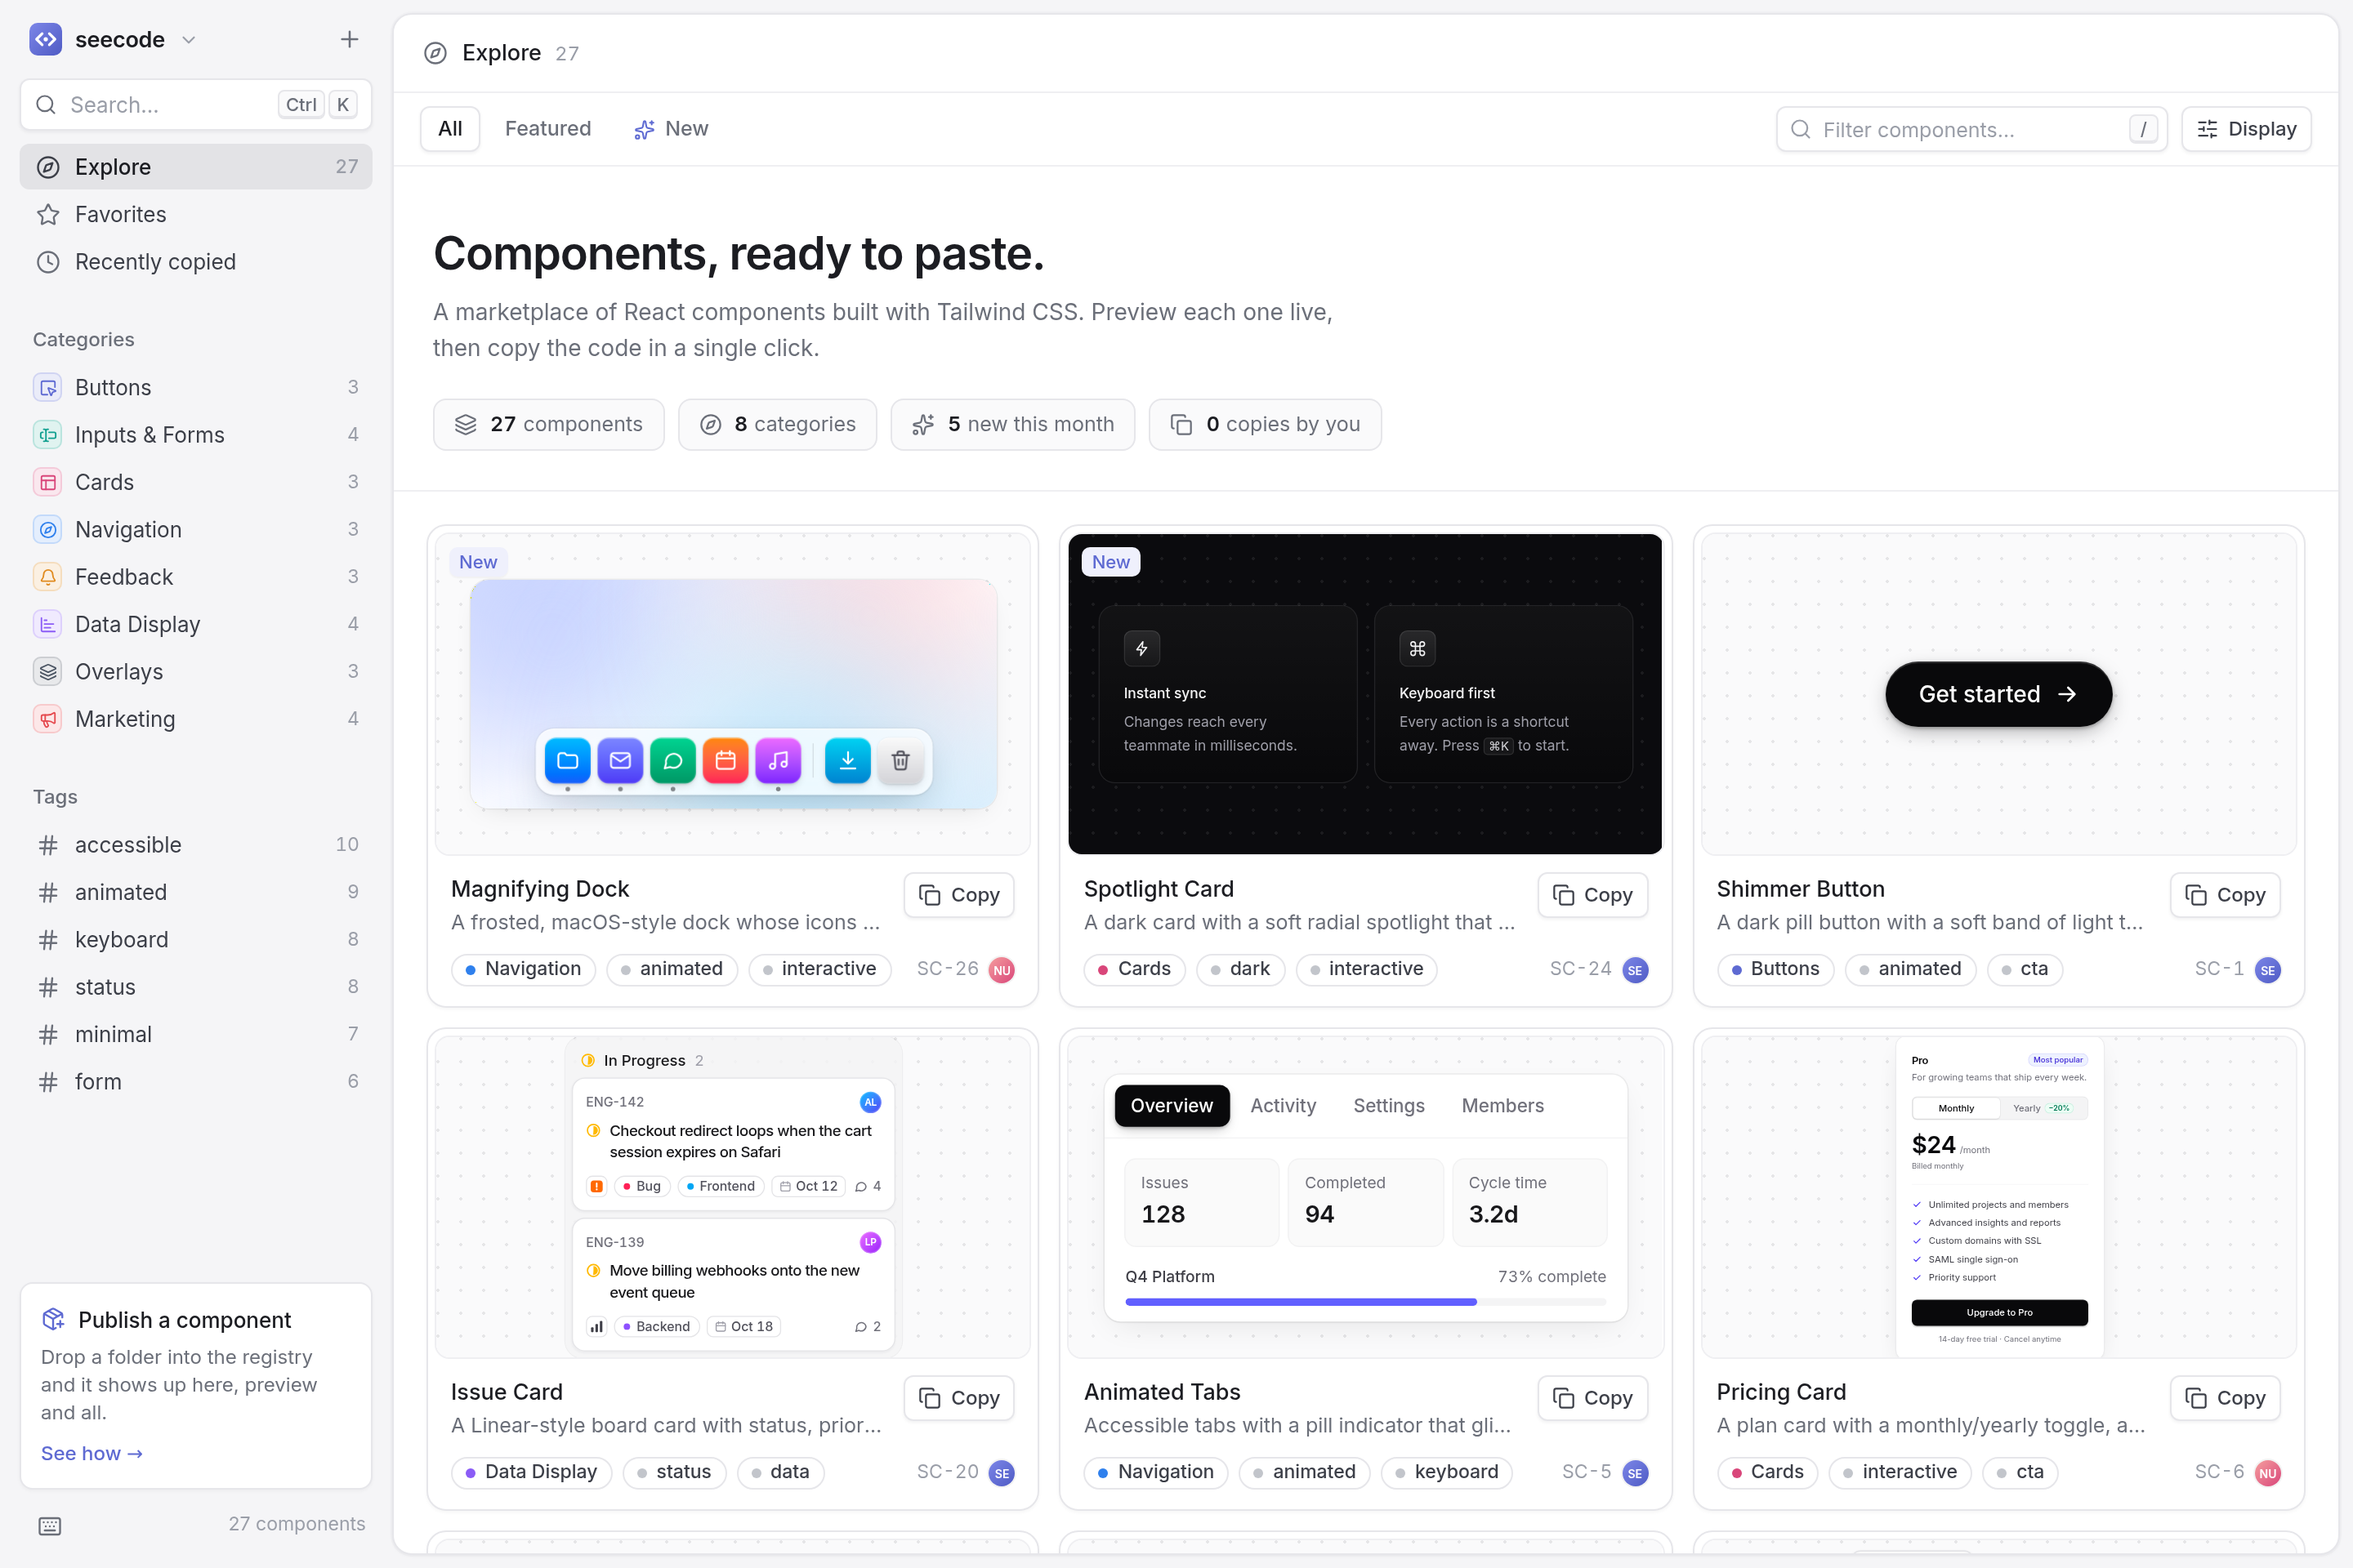
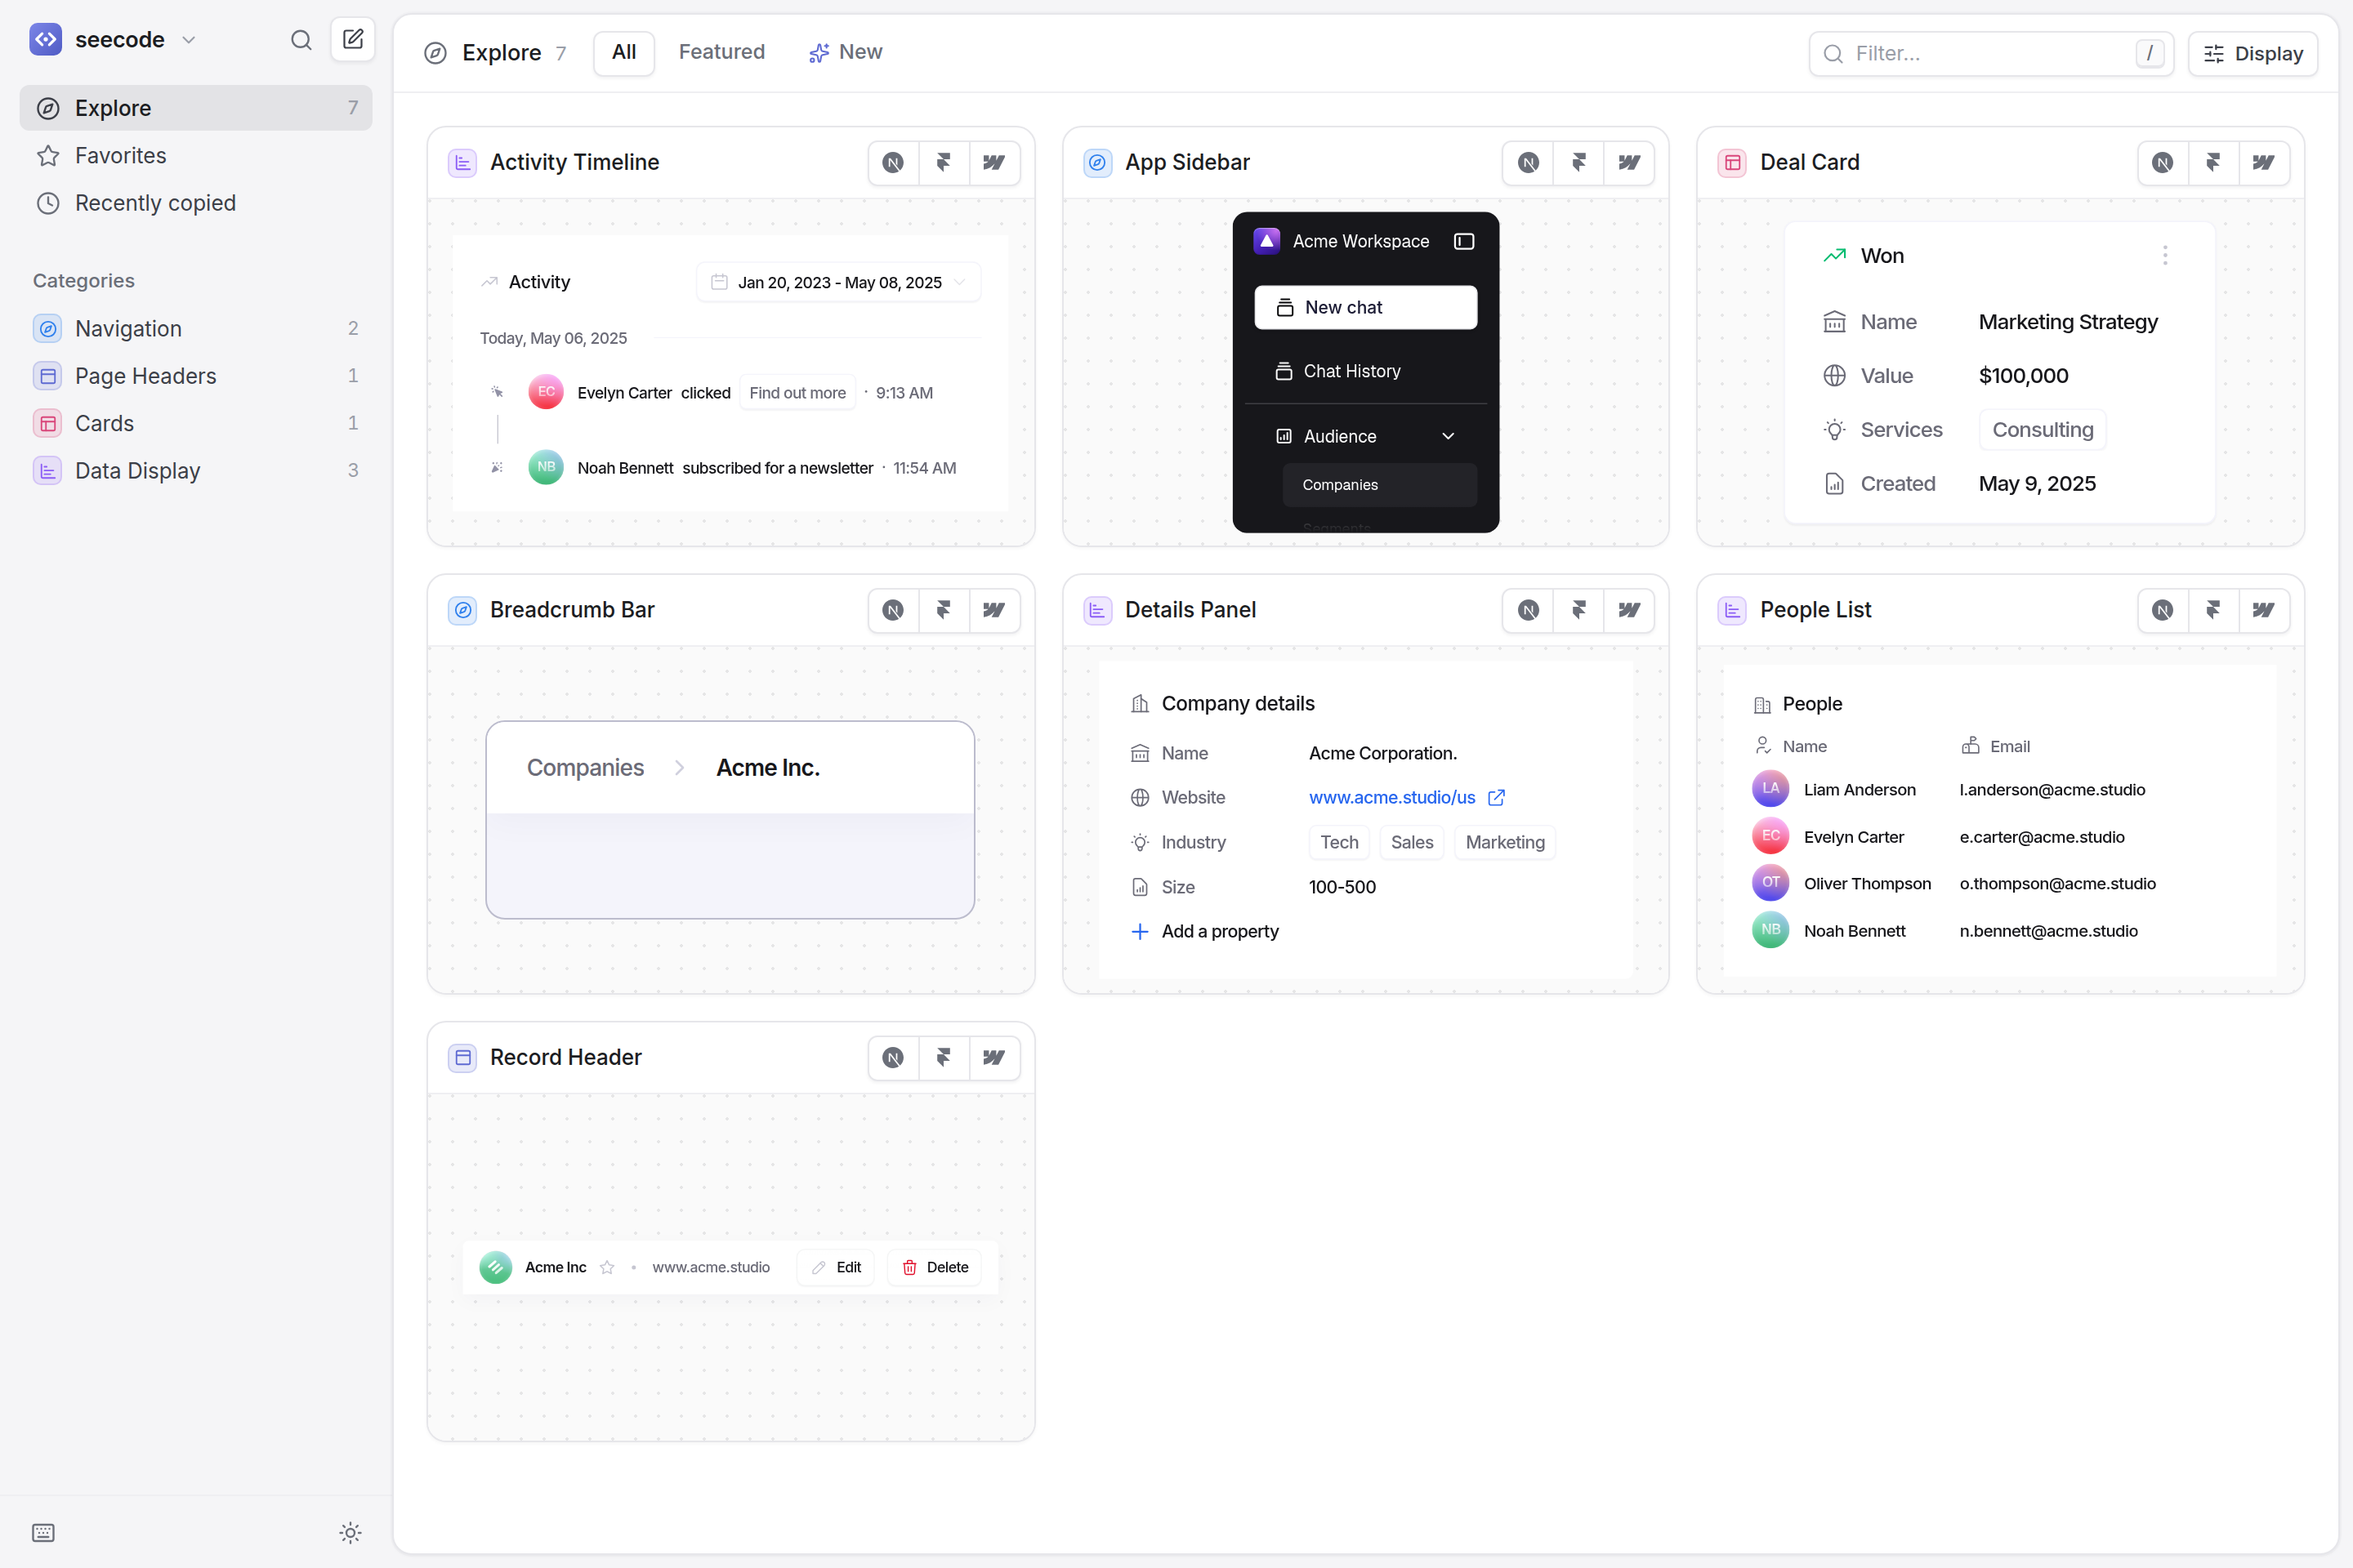
Update the README for the three platforms and dark mode
Claude-Session: https://claude.ai/code/session_01EE7KqWNARg7TQF6QjFkxFJ

diff --git a/README.md b/README.md
@@ -1,28 +1,34 @@
 # seecode
 
-A marketplace dashboard for copy-paste React components, styled after [Linear](https://linear.app)'s
-interface in light mode. Browse live previews and copy any component's source in one click.
+A marketplace dashboard for UI components, styled after [Linear](https://linear.app)'s interface
+in light and dark mode. Every component ships for **Next.js**, **Framer** and **Webflow** — browse
+live previews and copy the code for your platform in one click.
 
 **Live site:** https://seecode-rho.vercel.app
 
-![seecode — Explore page](docs/screenshot.png)
+![seecode — Explore page in light mode](docs/screenshot.png)
+![seecode — a component page in dark mode](docs/screenshot-dark.png)
 
 ## Features
 
-- **One-click copy.** Every card and code block has a Copy button that puts the component's exact
-  source on your clipboard (with a fallback for browsers that block the Clipboard API).
-- **Live, interactive previews.** Each component renders in an isolated canvas — click it, type in
-  it, hover it. What you see is the code you copy, because previews and code come from the same file.
-- **Component pages** with a large preview, syntax-highlighted source and usage example, install
-  steps, a props table, and a Linear-style properties panel.
-- **Linear-style navigation.** An inset panel layout, a ⌘K command menu, grid and grouped list
-  views, quick filters, favorites, a "Recently copied" history, right-click menus and toasts.
+- **Copy for your platform.** Each card has a copy button per platform: Next.js (React + Tailwind
+  CSS), Framer (a code component with property controls) and Webflow (an HTML + CSS embed). `c`
+  copies the platform you used last.
+- **Live, interactive previews.** Each component renders on its own canvas — click it, hover it.
+  The Next.js preview and the copied code come from the same file. Wide demos zoom out to fit,
+  like a design tool, and the canvas can be switched between light and dark.
+- **Component pages** with platform tabs, syntax-highlighted code, step-by-step instructions for
+  each platform, a props table and a Linear-style properties panel.
+- **Light, dark or system theme**, modelled on Linear's palettes, including the code highlighting.
+- **Linear-style layout.** One top bar per page holds the title, view tabs, filter and display
+  options; an inset panel layout, ⌘K command menu, grid and grouped list views, favorites, a
+  "Recently copied" history, right-click menus and toasts.
 - **Keyboard first.** `⌘K` search, `/` filter, `j`/`k` to move, `c` to copy, `f` to favorite,
   `v` to switch views, `g` then `e`/`f`/`r` to jump around. Press `?` for the full list.
 - **Responsive** down to phone widths, with a slide-out sidebar.
 
-Favorites, copy history and view preferences are stored in the browser (`localStorage`); there is
-no backend.
+Favorites, copy history, the theme and view preferences are stored in the browser
+(`localStorage`); there is no backend.
 
 ## Getting started
 
@@ -33,22 +39,23 @@ npm install
 npm run dev       # http://localhost:5173
 ```
 
-| Script              | What it does                                                   |
-| ------------------- | -------------------------------------------------------------- |
-| `npm run dev`       | Start the dev server                                           |
-| `npm run build`     | Type-check and build a static site into `dist/`                |
-| `npm run preview`   | Serve the production build locally                             |
-| `npm run typecheck` | Run TypeScript                                                 |
-| `npm test`          | Unit tests, plus registry checks that server-render every demo |
+| Script              | What it does                                             |
+| ------------------- | -------------------------------------------------------- |
+| `npm run dev`       | Start the dev server                                     |
+| `npm run build`     | Type-check and build a static site into `dist/`          |
+| `npm run preview`   | Serve the production build locally                       |
+| `npm run typecheck` | Run TypeScript                                           |
+| `npm test`          | Unit tests, plus registry checks for all three platforms |
 
 ## Adding a component
 
-Components live in `src/registry/components/<slug>/` as three files — the component people copy,
-a demo, and metadata. New folders are picked up automatically. See
-[CONTRIBUTING.md](CONTRIBUTING.md) for the full guide; `npm test` validates every entry.
+Components live in `src/registry/components/<slug>/`: the code for each platform
+(`<slug>.tsx`, `<slug>.framer.tsx`, `<slug>.webflow.html`), a demo and metadata. New folders are
+picked up automatically. See [CONTRIBUTING.md](CONTRIBUTING.md) for the full guide; `npm test`
+validates every entry, renders every demo and Framer version, and checks the Webflow class names.
 
-The sample components (and the authors credited on them) are placeholder content — replace them
-with your own.
+The current components are built from a Figma app design, with placeholder people and company
+names.
 
 ## Project structure
 
@@ -60,8 +67,8 @@ src/
 │   └── authors.ts       # creators shown on cards
 ├── pages/               # Explore / category / tag / favorites / recent, and the component page
 ├── components/          # dashboard UI: cards, rows, code block, command menu, dialogs…
-├── lib/                 # routing, persisted state, clipboard, search, syntax highlighting
-└── styles/index.css     # Tailwind v4 theme — the Linear-inspired light tokens
+├── lib/                 # routing, theme, platforms, persisted state, clipboard, search, highlighting
+└── styles/index.css     # Tailwind v4 theme — Linear-inspired light and dark tokens
 ```
 
 Built with React 19, TypeScript, Vite, Tailwind CSS v4, [cmdk](https://cmdk.paco.me),
